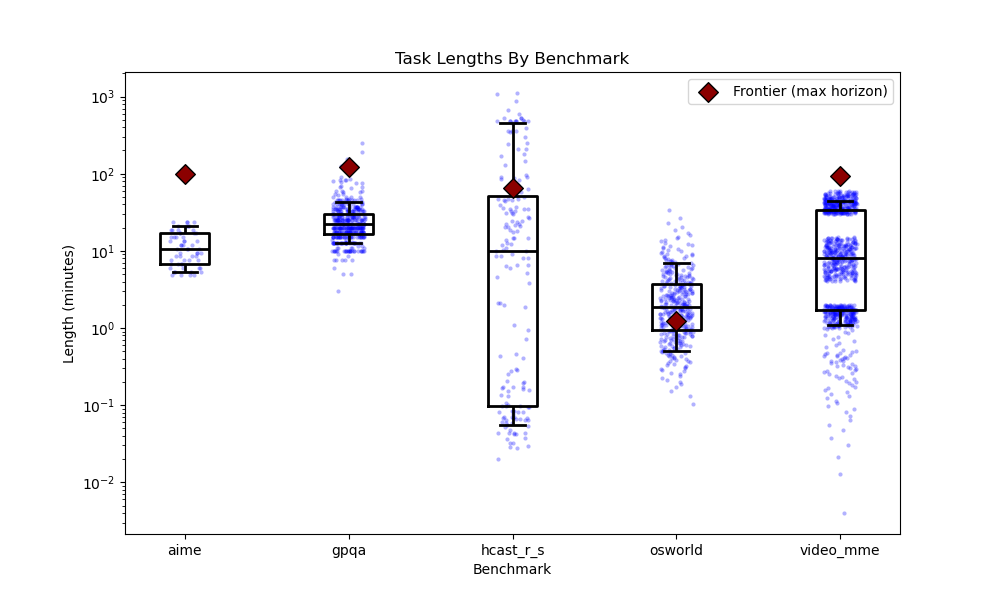
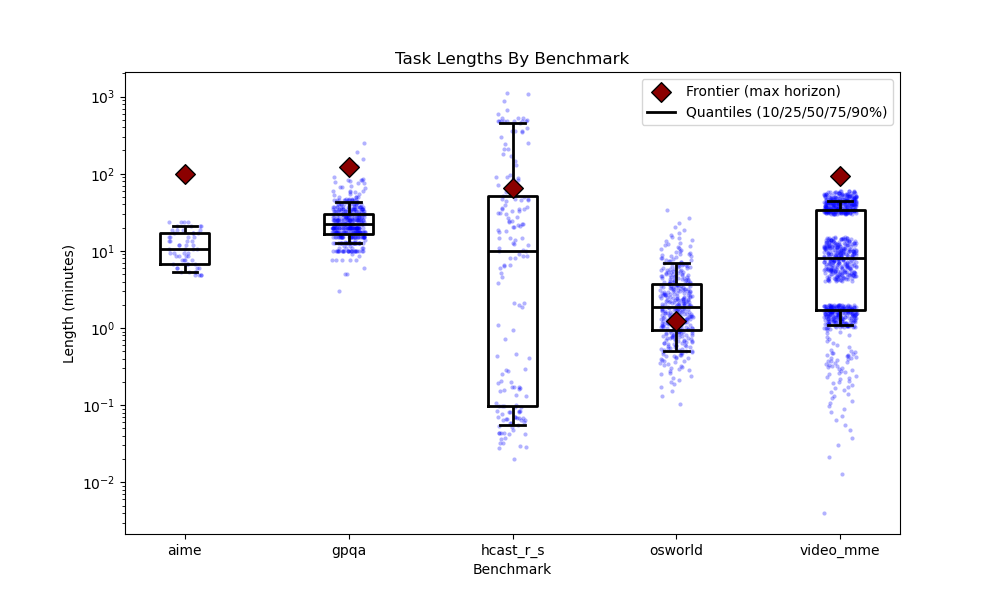
quantile label

diff --git a/plots.py b/plots.py
@@ -284,6 +284,9 @@ def plot_benchmarks(df: pd.DataFrame, benchmarks_path: pathlib.Path, output_file
         plt.scatter(benchmark, horizon, color='darkred', edgecolor='black', marker='D', s=100, zorder=3, **kwargs)
         kwargs = {}
 
+    # Add a legend item for the boxplot quantiles
+    plt.plot([], [], color='black', linewidth=2, label="Quantiles (10/25/50/75/90%)")
+
     # legend
     plt.legend()
 
